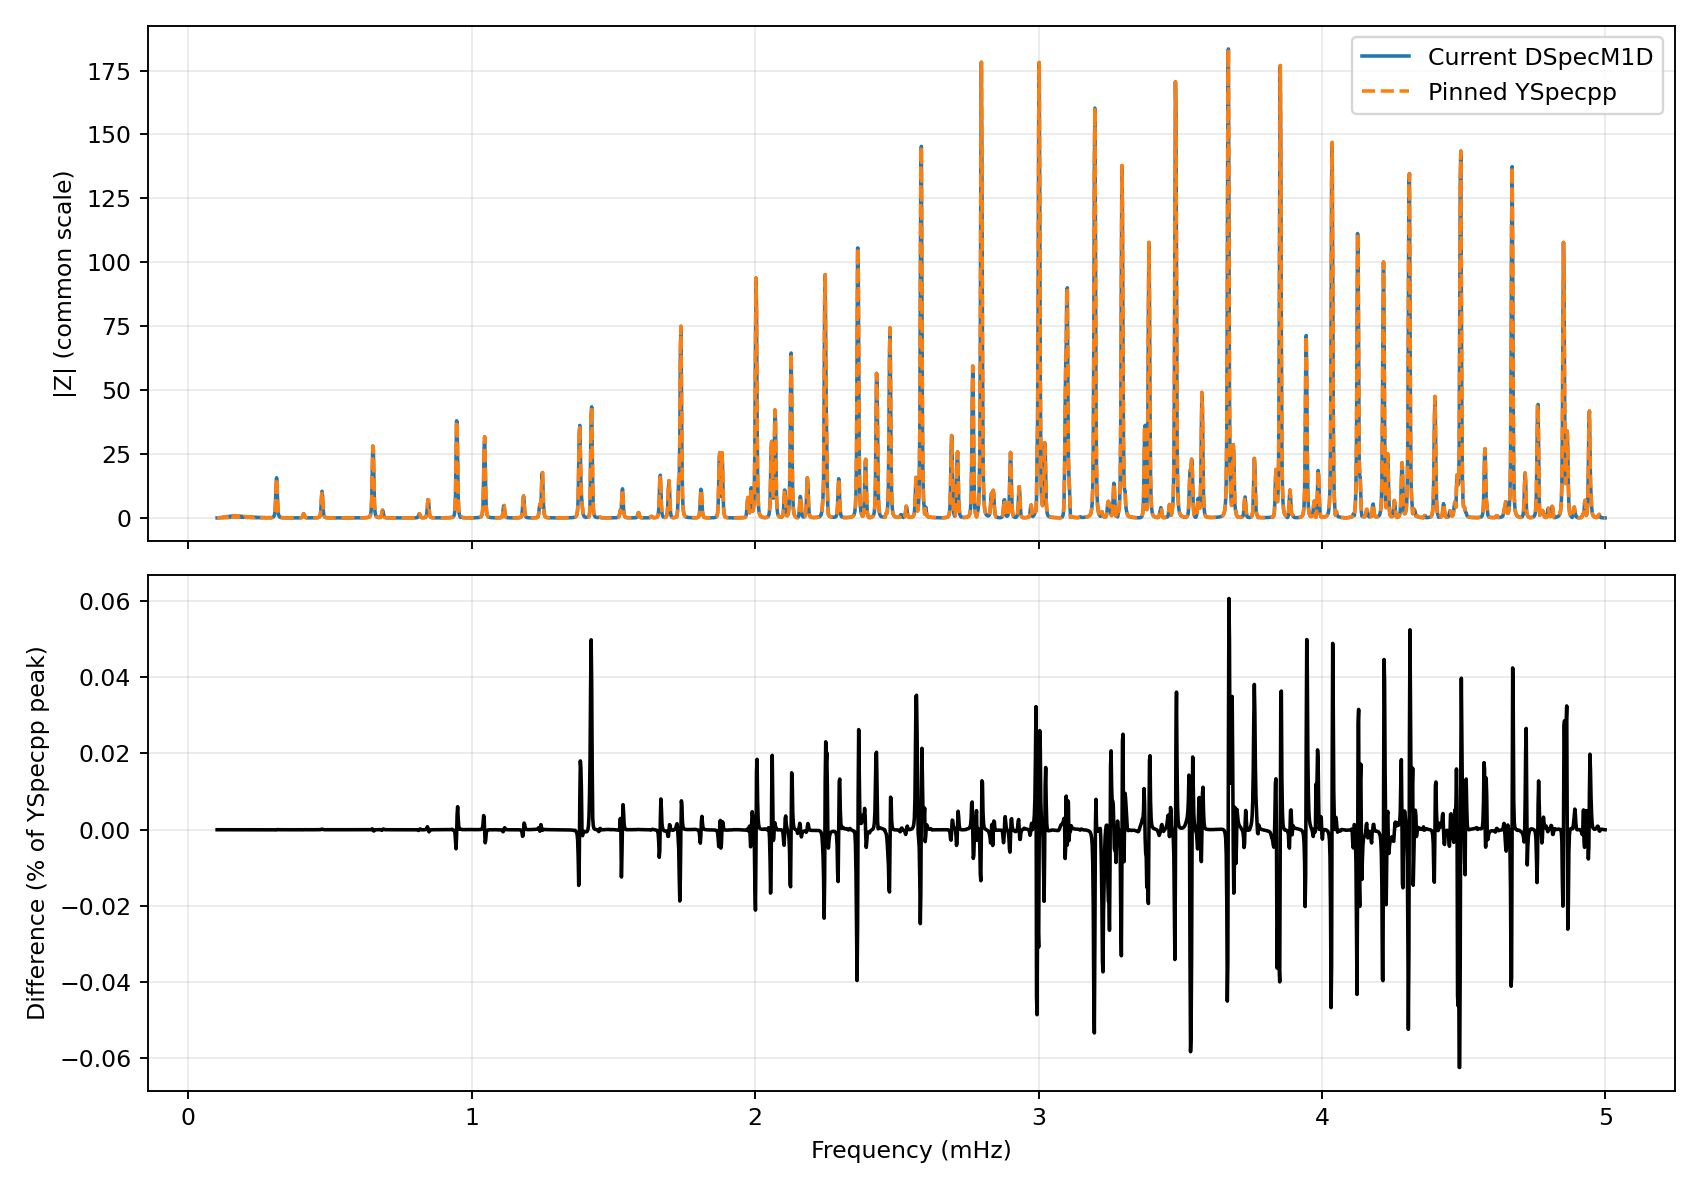
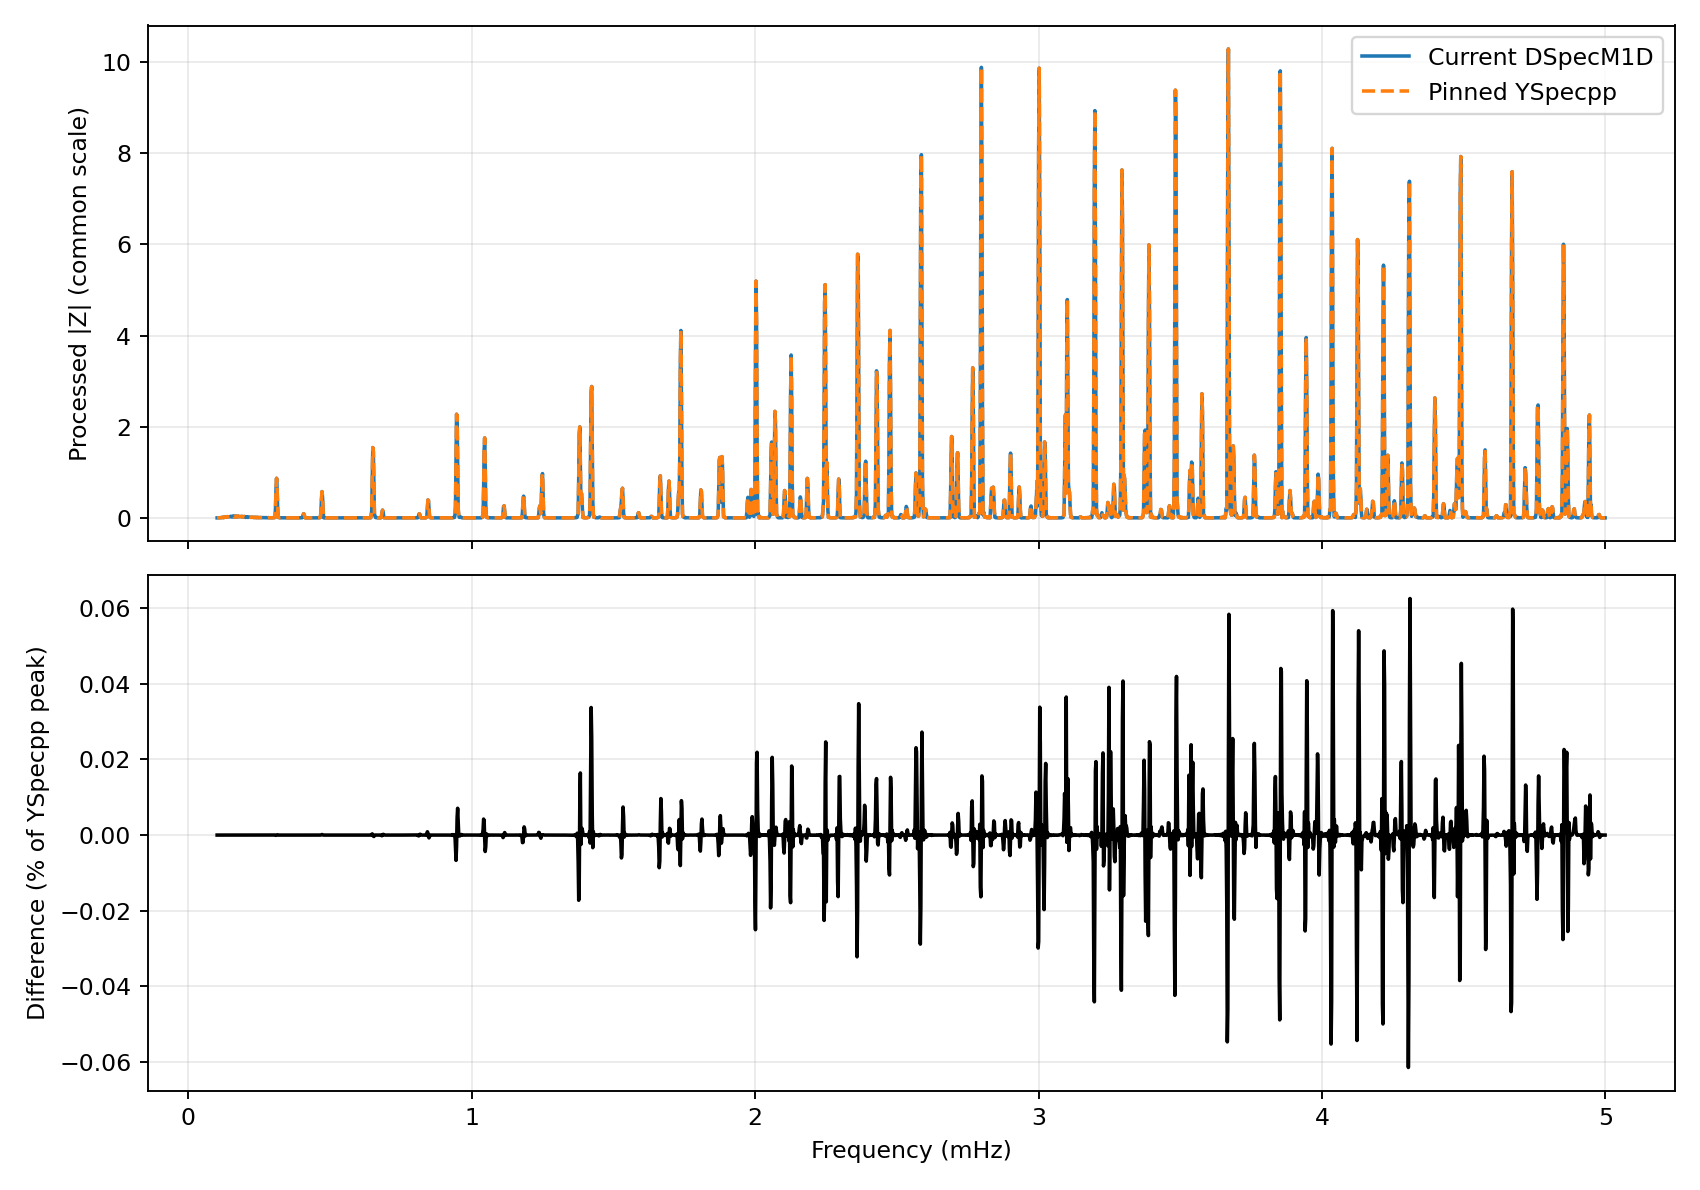
Correct secondary spectrum damping and preserve benchmark evidence

diff --git a/docs/site/yspecpp-update-2026-10-20.html b/docs/site/yspecpp-update-2026-10-20.html
@@ -43,9 +43,9 @@
         </figure>
         <div class="table-wrap"><table>
           <thead><tr><th scope="col">Product</th><th scope="col">Mean difference</th><th scope="col">Maximum difference</th></tr></thead>
-          <tbody><tr><th scope="row">Adopted windowed spectrum amplitude</th><td>0.00303%</td><td>0.0624%</td></tr></tbody>
+          <tbody><tr><th scope="row">Adopted windowed spectrum amplitude</th><td>0.00251%</td><td>0.0625%</td></tr></tbody>
         </table></div>
-        <p>Both values are normalized by the YSpecpp band peak. The postprocessing manifest and hashes of both raw spectrum inputs are included in the Figure 1 JSON record.</p>
+        <p>Both values are normalized by the YSpecpp band peak. The corrected processing removes the damping envelope once, before filtering; the previous secondary result applied a second damping compensation after filtering. The raw spectra are unchanged, and the derivation record and input hashes are included in the Figure 1 JSON.</p>
         <h3>Filtered finite-time traces</h3>
         <p>This companion product compares filtered displacement time traces over the 100-hour run. The shared half-cosine corners are 0.1, 0.2, 4.9 and 5.0 mHz. Its metrics describe time-domain traces and are separate from the raw spectrum-amplitude metrics above.</p>
         <figure class="benchmark-figure">

diff --git a/tests/test_yspecpp_benchmark.py b/tests/test_yspecpp_benchmark.py
@@ -1,0 +1,171 @@
+from __future__ import annotations
+
+import os
+from pathlib import Path
+import subprocess
+import sys
+import tempfile
+import unittest
+
+import numpy as np
+
+REPO = Path(__file__).resolve().parents[1]
+YSPECPP = REPO / "benchmarks" / "yspecpp"
+sys.path.insert(0, str(YSPECPP))
+
+from run_paper_suite import legacy_processed_amplitude_spectrum
+
+
+def _hann_ends(time: np.ndarray, duration: float, fraction: float) -> np.ndarray:
+    edge = fraction * duration
+    window = np.ones(time.size)
+    if edge <= 0:
+        return window
+    left = time < edge
+    right = time > duration - edge
+    window[left] = 0.5 * (1.0 - np.cos(np.pi * time[left] / edge))
+    window[right] = 0.5 * (
+        1.0 - np.cos(np.pi * (duration - time[right]) / edge)
+    )
+    window[time >= duration] = 0.0
+    return window
+
+
+def _half_cosine(frequency: np.ndarray,
+                 corners_mhz: list[float]) -> np.ndarray:
+    f1, f2, f3, f4 = np.asarray(corners_mhz, dtype=float) / 1000.0
+    weights = np.zeros(frequency.shape)
+    rising = (frequency >= f1) & (frequency < f2)
+    flat = (frequency >= f2) & (frequency < f3)
+    falling = (frequency >= f3) & (frequency < f4)
+    weights[rising] = 0.5 * (
+        1.0 - np.cos(np.pi * (frequency[rising] - f1) / (f2 - f1))
+    )
+    weights[flat] = 1.0
+    weights[falling] = 0.5 * (
+        1.0 - np.cos(np.pi * (f4 - frequency[falling]) / (f4 - f3))
+    )
+    return weights
+
+
+def _snapshot(root: Path) -> dict[str, tuple[str, bytes | None]]:
+    return {
+        path.relative_to(root).as_posix(): (
+            "directory" if path.is_dir() else "file",
+            None if path.is_dir() else path.read_bytes(),
+        )
+        for path in sorted(root.rglob("*"))
+    }
+
+
+class LegacyProcessedSpectrumTests(unittest.TestCase):
+    def test_nonzero_damping_is_undone_once_before_filtering(self):
+        nfft = 128
+        dt = 0.25
+        df = 1.0 / (nfft * dt)
+        epsilon = 0.017
+        output_samples = nfft
+        time = np.arange(nfft, dtype=float) * dt
+        frequency = np.arange(nfft // 2 + 1, dtype=float) * df
+        physical = (0.7 * np.sin(2 * np.pi * frequency[1] * time + 0.2)
+                    + 0.3 * np.cos(2 * np.pi * frequency[2] * time - 0.4)
+                    + 0.2 * np.sin(2 * np.pi * frequency[3] * time + 0.9))
+        corners = [10.0, 20.0, 80.0, 110.0]
+        final_window_fraction = 0.5
+        damped_bins = np.fft.rfft(physical * np.exp(-epsilon * time)) / (nfft * df)
+        spectra = {(index, 0): value for index, value in enumerate(damped_bins)}
+        meta = {
+            "samples": nfft,
+            "sample_interval_s": dt,
+            "frequency_spacing_hz": df,
+            "damping_epsilon_rad_s": epsilon,
+            "output_samples": output_samples,
+        }
+
+        actual_frequency, actual = legacy_processed_amplitude_spectrum(
+            spectra, meta, corners, final_window_fraction
+        )
+
+        duration = max((output_samples - 1) * dt, dt)
+        pre_window = _hann_ends(time, duration, 0.05)
+        pre_spectrum = np.fft.rfft(physical * pre_window, n=nfft)
+        filtered_time = np.fft.irfft(
+            pre_spectrum * _half_cosine(frequency, corners), n=nfft
+        ) * nfft * df
+        expected = np.abs(np.fft.rfft(
+            filtered_time * _hann_ends(time, duration, final_window_fraction),
+            n=nfft,
+        ))
+
+        actual_shape = actual / np.max(actual)
+        expected_shape = expected / np.max(expected)
+        self.assertTrue(np.array_equal(actual_frequency, frequency))
+        np.testing.assert_allclose(actual_shape, expected_shape, rtol=2e-12,
+                                   atol=2e-12)
+
+        twice_damped = filtered_time * np.exp(epsilon * time)
+        wrong = np.abs(np.fft.rfft(
+            twice_damped * _hann_ends(time, duration, final_window_fraction),
+            n=nfft,
+        ))
+        wrong_shape = wrong / np.max(wrong)
+        self.assertGreater(float(np.mean(np.abs(actual_shape - wrong_shape))),
+                           1e-3)
+
+
+class OutputDirectoryGuardTests(unittest.TestCase):
+    def test_populated_run_directories_stop_before_any_subprocess_or_write(self):
+        scripts = (
+            (YSPECPP / "run_paper2.py", ["--dspec-source", "missing-source"]),
+            (YSPECPP / "run_benchmark.py", [
+                "--dspec-source", "missing-source", "--yspec-source", "missing-yspec",
+                "--dependency-root", "missing-dependencies",
+            ]),
+        )
+        with tempfile.TemporaryDirectory() as temp:
+            root = Path(temp)
+            hook_dir = root / "hooks"
+            hook_dir.mkdir()
+            (hook_dir / "sitecustomize.py").write_text(
+                "import os\n"
+                "from pathlib import Path\n"
+                "import subprocess\n"
+                "def blocked(*args, **kwargs):\n"
+                "    Path(os.environ['PROCESS_SENTINEL']).write_text('called')\n"
+                "    raise RuntimeError('subprocess sentinel called')\n"
+                "subprocess.run = blocked\n"
+                "subprocess.check_output = blocked\n"
+                "subprocess.Popen = blocked\n",
+                encoding="utf-8",
+            )
+            env = os.environ.copy()
+            env["PYTHONDONTWRITEBYTECODE"] = "1"
+            env["PYTHONPATH"] = str(hook_dir)
+            for script, extra_args in scripts:
+                with self.subTest(script=script.name):
+                    output = root / f"{script.stem}-run"
+                    (output / "nested").mkdir(parents=True)
+                    (output / ".provenance").write_text("kept", encoding="utf-8")
+                    (output / "nested" / "input.json").write_text(
+                        '{"frozen": true}\n', encoding="utf-8"
+                    )
+                    before = _snapshot(output)
+                    process_sentinel = root / f"{script.stem}-process-called"
+                    env["PROCESS_SENTINEL"] = str(process_sentinel)
+                    result = subprocess.run(
+                        [sys.executable, "-B", str(script), *extra_args,
+                         "--output", str(output)],
+                        cwd=root,
+                        env=env,
+                        capture_output=True,
+                        text=True,
+                        check=False,
+                    )
+                    self.assertNotEqual(result.returncode, 0, result.stdout)
+                    self.assertIn("output directory must be empty", result.stderr)
+                    self.assertFalse(process_sentinel.exists())
+                    self.assertEqual(_snapshot(output), before)
+
+
+if __name__ == "__main__":
+    unittest.main()

diff --git a/benchmarks/yspecpp/run_paper2.py b/benchmarks/yspecpp/run_paper2.py
@@ -361,6 +361,10 @@ def main() -> None:
     parser.add_argument("--full", action="store_true",
                         help="run the published 1.5–21 mHz band")
     args = parser.parse_args()
+    default_root = args.dspec_source / "build/phase3/paper2-20261020"
+    outdir = (args.output or default_root / ("full" if args.full else "pilot")).resolve()
+    if outdir.exists() and any(outdir.iterdir()):
+        raise SystemExit(f"output directory must be empty: {outdir}")
     os.environ["OMP_NUM_THREADS"] = "2"
     os.environ["OMP_DYNAMIC"] = "FALSE"
     os.environ["OMP_MAX_ACTIVE_LEVELS"] = "1"
@@ -379,8 +383,6 @@ def main() -> None:
         # The degree cap, 5 h FFT, nq=5, and 1e-5 accuracy remain at paper scale.
         settings["frequency_min_mHz"] = 11.15
         settings["frequency_max_mHz"] = 11.35
-    default_root = args.dspec_source / "build/phase3/paper2-20261020"
-    outdir = (args.output or default_root / ("full" if args.full else "pilot")).resolve()
     protocol_path = args.protocol.resolve()
     protocol = json.loads(protocol_path.read_text())
     source_head = subprocess.check_output(

diff --git a/benchmarks/yspecpp/run_benchmark.py b/benchmarks/yspecpp/run_benchmark.py
@@ -342,6 +342,10 @@ def main() -> None:
                         default="coarse")
     parser.add_argument("--configure-only", action="store_true")
     args = parser.parse_args()
+    outdir = args.output or args.dspec_source / "build/phase3/benchmark-results"
+    outdir = outdir.resolve()
+    if outdir.exists() and any(outdir.iterdir()):
+        raise SystemExit(f"output directory must be empty: {outdir}")
     if not 1 <= args.jobs <= 2:
         parser.error("--jobs must be 1 or 2")
     os.environ["OMP_NUM_THREADS"] = "2"
@@ -355,8 +359,6 @@ def main() -> None:
     if yspec_tree_hash != YSPEC_FILETREE_SHA256 or yspec_file_count != 76:
         raise SystemExit("YSpecpp snapshot does not match the pinned source archive")
 
-    outdir = args.output or args.dspec_source / "build/phase3/benchmark-results"
-    outdir = outdir.resolve()
     inputs = outdir / "inputs"
     models = inputs / "data/models"
     params_dir = inputs / "data/params"

diff --git a/benchmarks/yspecpp/run_paper_suite.py b/benchmarks/yspecpp/run_paper_suite.py
@@ -225,7 +225,7 @@ def legacy_processed_amplitude_spectrum(spectra: dict, meta: dict,
     pre_spectrum = np.fft.rfft(raw_time * hann_ends(0.05), n=nfft)
     filtered_time = np.fft.irfft(
         pre_spectrum * common.half_cosine(frequency, filter_corners), n=nfft
-    ) * nfft * df * np.exp(epsilon * time)
+    ) * nfft * df
     final_spectrum = np.fft.rfft(filtered_time * hann_ends(window_fraction), n=nfft)
     return frequency, np.abs(final_spectrum)
 
